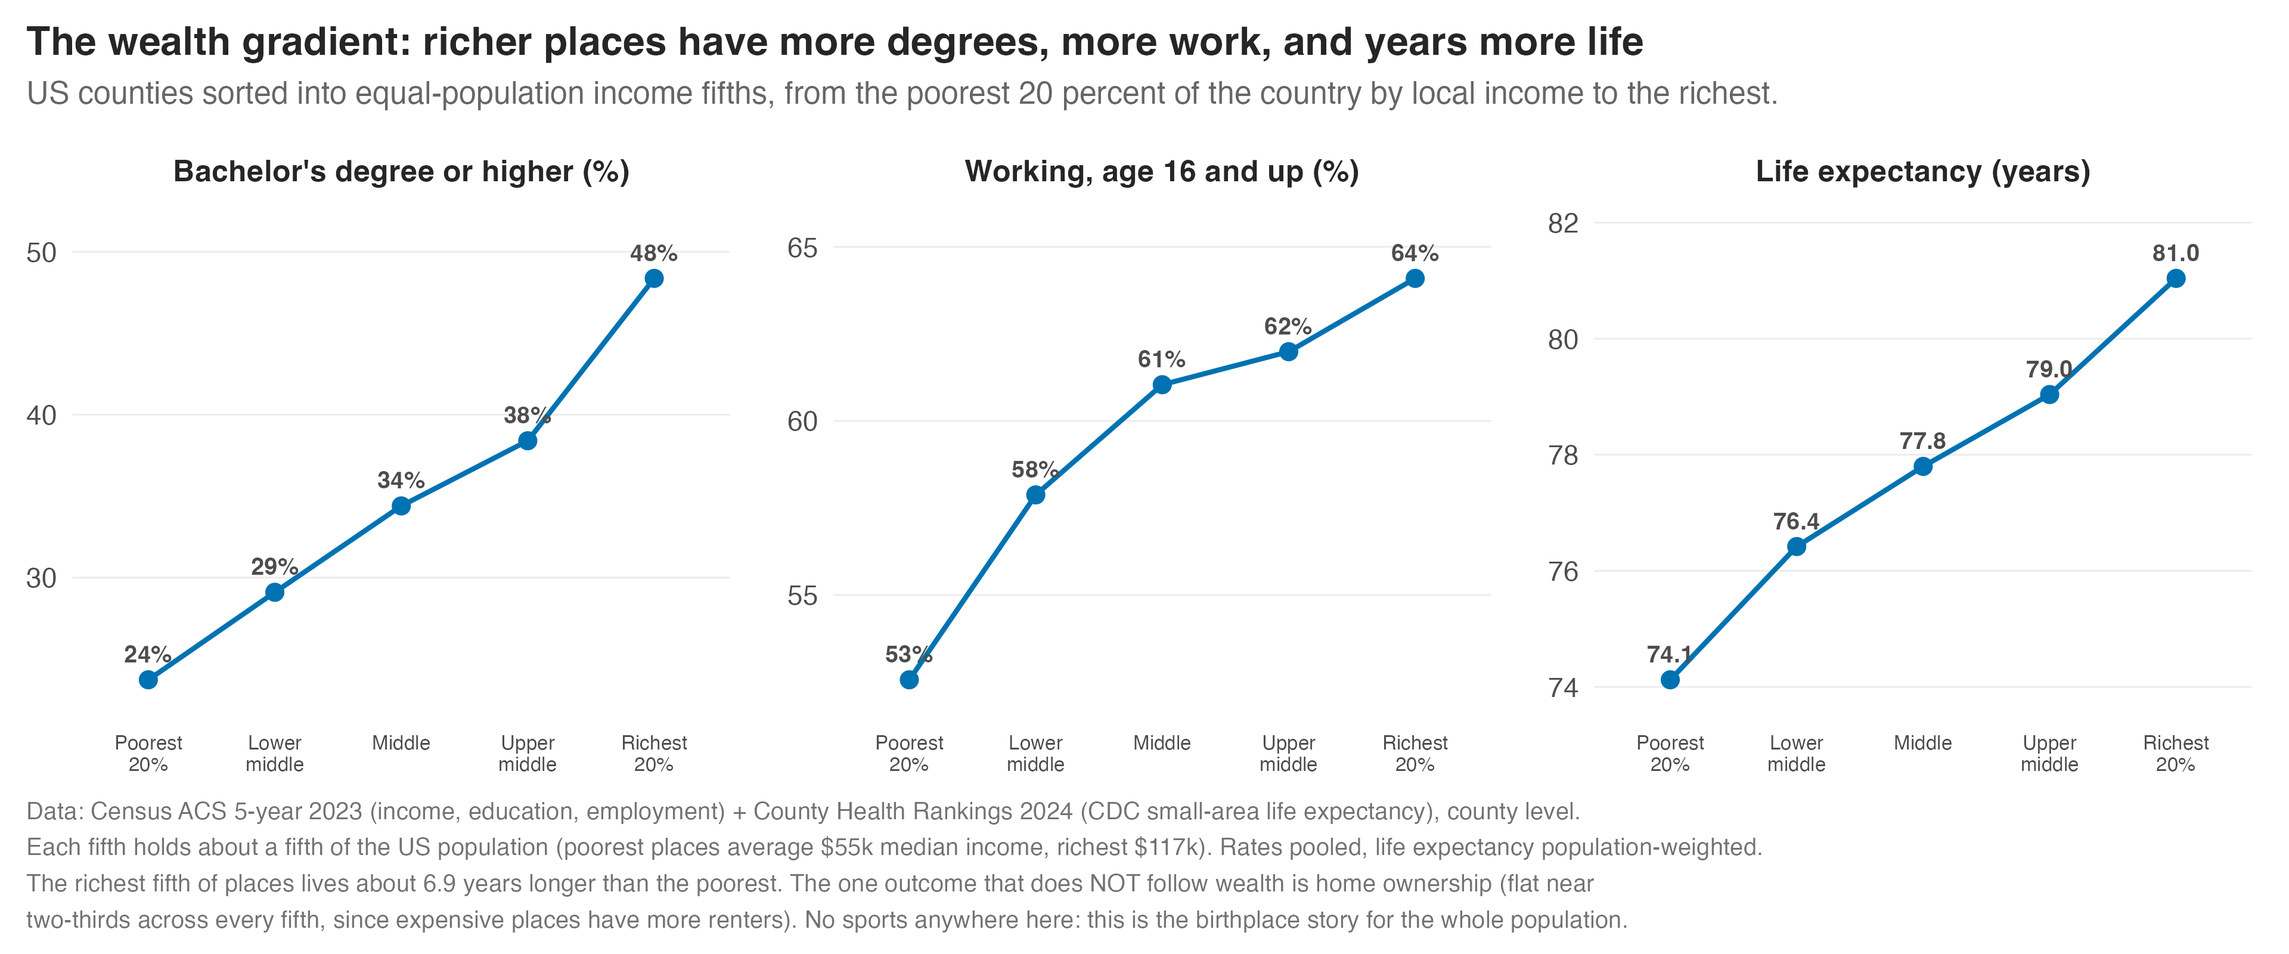
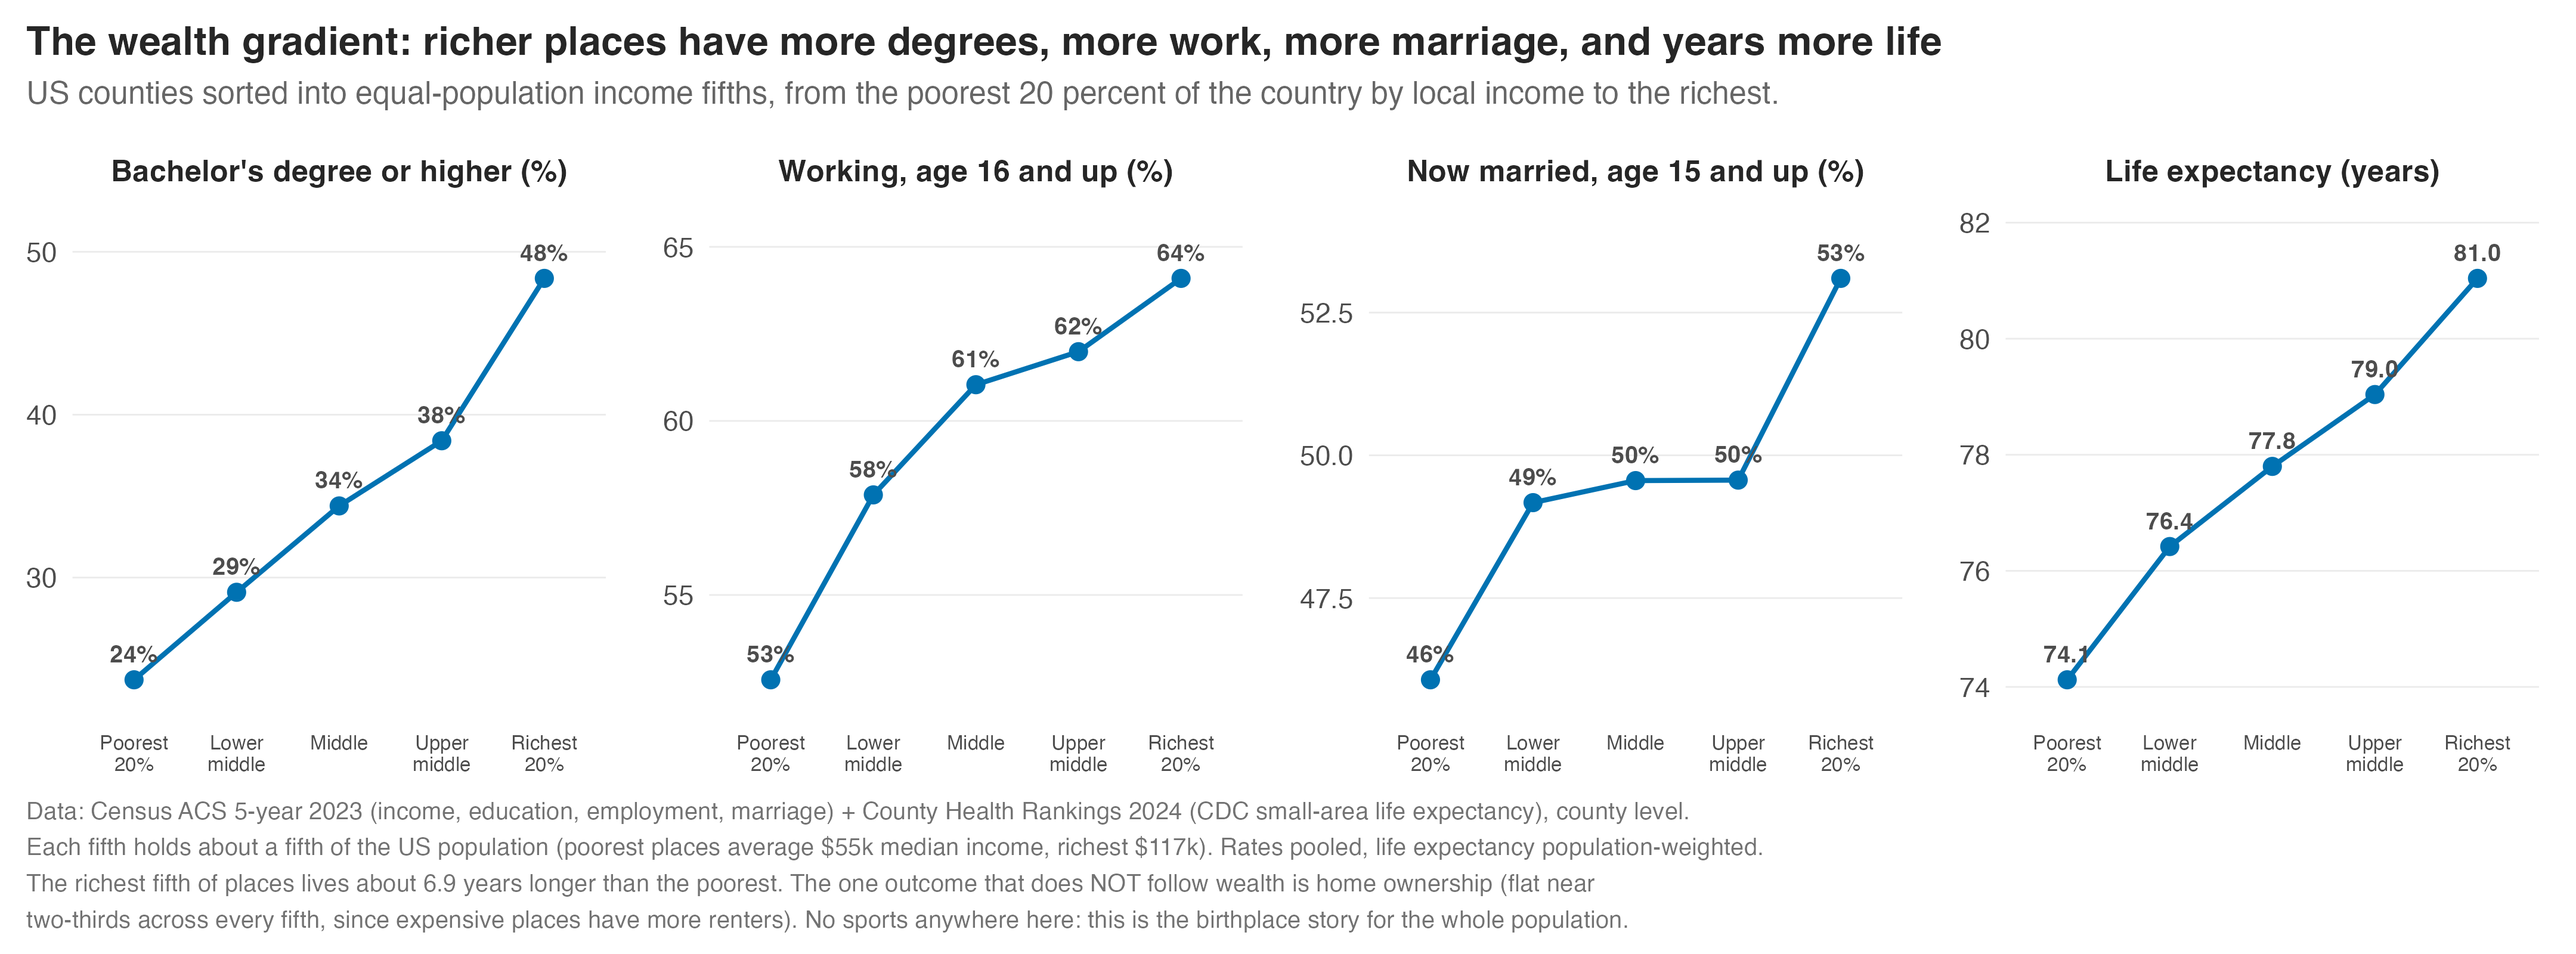
feat: La Liga cutoff contrast + marriage in the wealth gradient
- R/50 ba_soccer_cutoffs: Premier League (Sept 1 cutoff -> autumn peak) vs La Liga
  (Jan 1 cutoff -> winter peak), n=13,543 + 8,008 from Wikidata. The birth-month
  peak slides to match each country's cutoff -- cleanest proof the RAE is about
  the age line, not the calendar. Swapped into the soccer card.
- R/48: added marriage rate (ACS B12001) as a 4th wealth-gradient panel (46->53%
  across income fifths). Michael's beyond-sports outcome list now essentially all
  charted (income, education, employment, home ownership, marriage, life expectancy;
  only family net worth remains, no small-area data).

Claude-Session: https://claude.ai/code/session_01RYr7QykH5RmY1tzkRQT4SW

diff --git a/docs/birthday-advantage.html b/docs/birthday-advantage.html
@@ -386,12 +386,12 @@
     <div class="card">
       <div class="card-head"><span class="t">Soccer, and the foreign leagues</span><span class="pill ship">Chart built</span></div>
       <p class="row"><span class="lab">Michael:</span> did you ever do soccer, Premier League or La Liga? And USA men versus women? I have heard the US is bad in La Liga.</p>
-      <p class="row found"><span class="lab">Found:</span> pulled the Premier League, 13,543 players from Wikidata, and it shows the same birthday edge as US hockey, just shifted. English youth football's cutoff is September 1, so the oldest kids in a group are born in autumn, and Premier League players pile up in September and October, not January. The effect follows the cutoff, not the calendar. US men and women soccer is already split by sex in Act One, and both lean early-year. La Liga is the same pull if we want it. The separate "US players struggle in La Liga" point is about quality abroad, a different question we cannot get from birthdays.</p>
+      <p class="row found"><span class="lab">Found:</span> pulled both, and together they are the cleanest proof of the whole idea. The Premier League (13,543 players) and La Liga (8,008) both show the same birthday edge as US hockey, but each peaks at its own country's cutoff. England's youth cutoff is September 1, so English players pile up in September and October. Spain's is January 1, so Spanish players pile up in January. Same effect, the peak just slides to wherever the age line is drawn. It is about the cutoff, not the calendar. US men and women soccer is already split by sex in Act One, both leaning early-year. The separate "US struggles in La Liga" point is about quality abroad, a different question birthdays cannot answer.</p>
       <figure>
-        <img src="figures/ba_epl_rae.png" alt="Bar chart of Premier League players' birth months. September and October are the tallest bars, highlighted, well above the flat baseline; June is the shortest.">
-        <figcaption>Premier League birth months, from Wikidata. The peak is September, aligned to English football's September 1 cutoff, not January. Built by R/46.</figcaption>
+        <img src="figures/ba_soccer_cutoffs.png" alt="Two bar charts of birth months. Premier League peaks in September, October, November (highlighted). La Liga peaks in January, February, March (highlighted). Each league's peak matches its youth cutoff.">
+        <figcaption>Premier League vs La Liga birth months, from Wikidata. England's peak is autumn (Sept 1 cutoff), Spain's is winter (Jan 1 cutoff). Same effect, different cutoff. Built by R/50.</figcaption>
       </figure>
-      <p class="xref">Extends: the soccer chart in Act One. La Liga is the next easy pull.</p>
+      <p class="xref">Extends: the soccer chart in Act One. Both foreign leagues now done.</p>
     </div>
 
     <div class="tgroup">
@@ -560,18 +560,18 @@
     <div class="card">
       <div class="card-head"><span class="t">The wealth gradient, by income band</span><span class="pill ship">Chart built</span></div>
       <p class="row"><span class="lab">Michael:</span> maybe look at it by wealth? By zip code?</p>
-      <p class="row found"><span class="lab">Found:</span> sort every US county into equal-population income fifths, from the poorest 20 percent of places to the richest, and the outcomes climb almost in lockstep. College degrees double from 24 to 48 percent, employment rises from 53 to 64 percent, and life expectancy climbs 6.9 years, from 74 in the poorest fifth to 81 in the richest. The one thing that does not follow wealth is home ownership, flat near two-thirds everywhere, because expensive places have more renters.</p>
+      <p class="row found"><span class="lab">Found:</span> sort every US county into equal-population income fifths, from the poorest 20 percent of places to the richest, and the outcomes climb almost in lockstep. College degrees double from 24 to 48 percent, employment rises from 53 to 64 percent, marriage from 46 to 53 percent, and life expectancy climbs 6.9 years, from 74 in the poorest fifth to 81 in the richest. The one thing that does not follow wealth is home ownership, flat near two-thirds everywhere, because expensive places have more renters.</p>
       <figure>
-        <img src="figures/ba_wealth_gradient.png" alt="Three rising line charts across county income fifths from poorest to richest: bachelor's degree or higher (24 to 48 percent), employment (53 to 64 percent), and life expectancy (74.1 to 81.0 years).">
-        <figcaption>College degrees, employment, and life expectancy by county income fifth. The richest places live nearly seven years longer than the poorest. Census ACS plus County Health Rankings. Built by R/48.</figcaption>
+        <img src="figures/ba_wealth_gradient.png" alt="Four rising line charts across county income fifths from poorest to richest: bachelor's degree or higher (24 to 48 percent), employment (53 to 64 percent), now married (46 to 53 percent), and life expectancy (74.1 to 81.0 years).">
+        <figcaption>College degrees, employment, marriage, and life expectancy by county income fifth. The richest places live nearly seven years longer than the poorest. Census ACS plus County Health Rankings. Built by R/48.</figcaption>
       </figure>
       <p class="xref">The "by wealth" cut Michael asked for. Zip-level is the same pull at finer grain.</p>
     </div>
     <div class="card">
       <div class="card-head"><span class="t">His full outcome list, and what each needs</span><span class="pill data">Scoped</span></div>
       <p class="row"><span class="lab">Michael's list:</span> median income, family wealth, education by degree level, employment rate, home ownership, marriage rate, life expectancy, sliced by region or zip or wealth, adjusted for inflation where it helps.</p>
-      <p class="row found"><span class="lab">What each needs, and what is done:</span> income, education, employment, home ownership, and life expectancy are all built now, in the two charts above (ACS for the first four, County Health Rankings for life expectancy). Marriage rate is the same one-line ACS pull whenever we want it, by region or zip. The one genuinely hard outcome is family net worth: there is no good small-area wealth data, since the Fed's wealth survey is national only, so that one we would proxy or leave national.</p>
-      <p class="xref">Most of the list is now charted. Marriage rate and a zip-level version are the easy next pulls.</p>
+      <p class="row found"><span class="lab">What is done, and what is left:</span> income, education, employment, home ownership, marriage, and life expectancy are all built now, in the charts above (ACS for the first five, County Health Rankings for life expectancy). That is essentially his whole list. The one genuinely hard outcome is family net worth: there is no good small-area wealth data, since the Fed's wealth survey is national only, so that one we would proxy or leave national. A zip-level version of any of these is the same pull at finer grain.</p>
+      <p class="xref">His outcome list is now charted, except family net worth. A zip-level cut is the natural next grain.</p>
     </div>
 
   </div>
